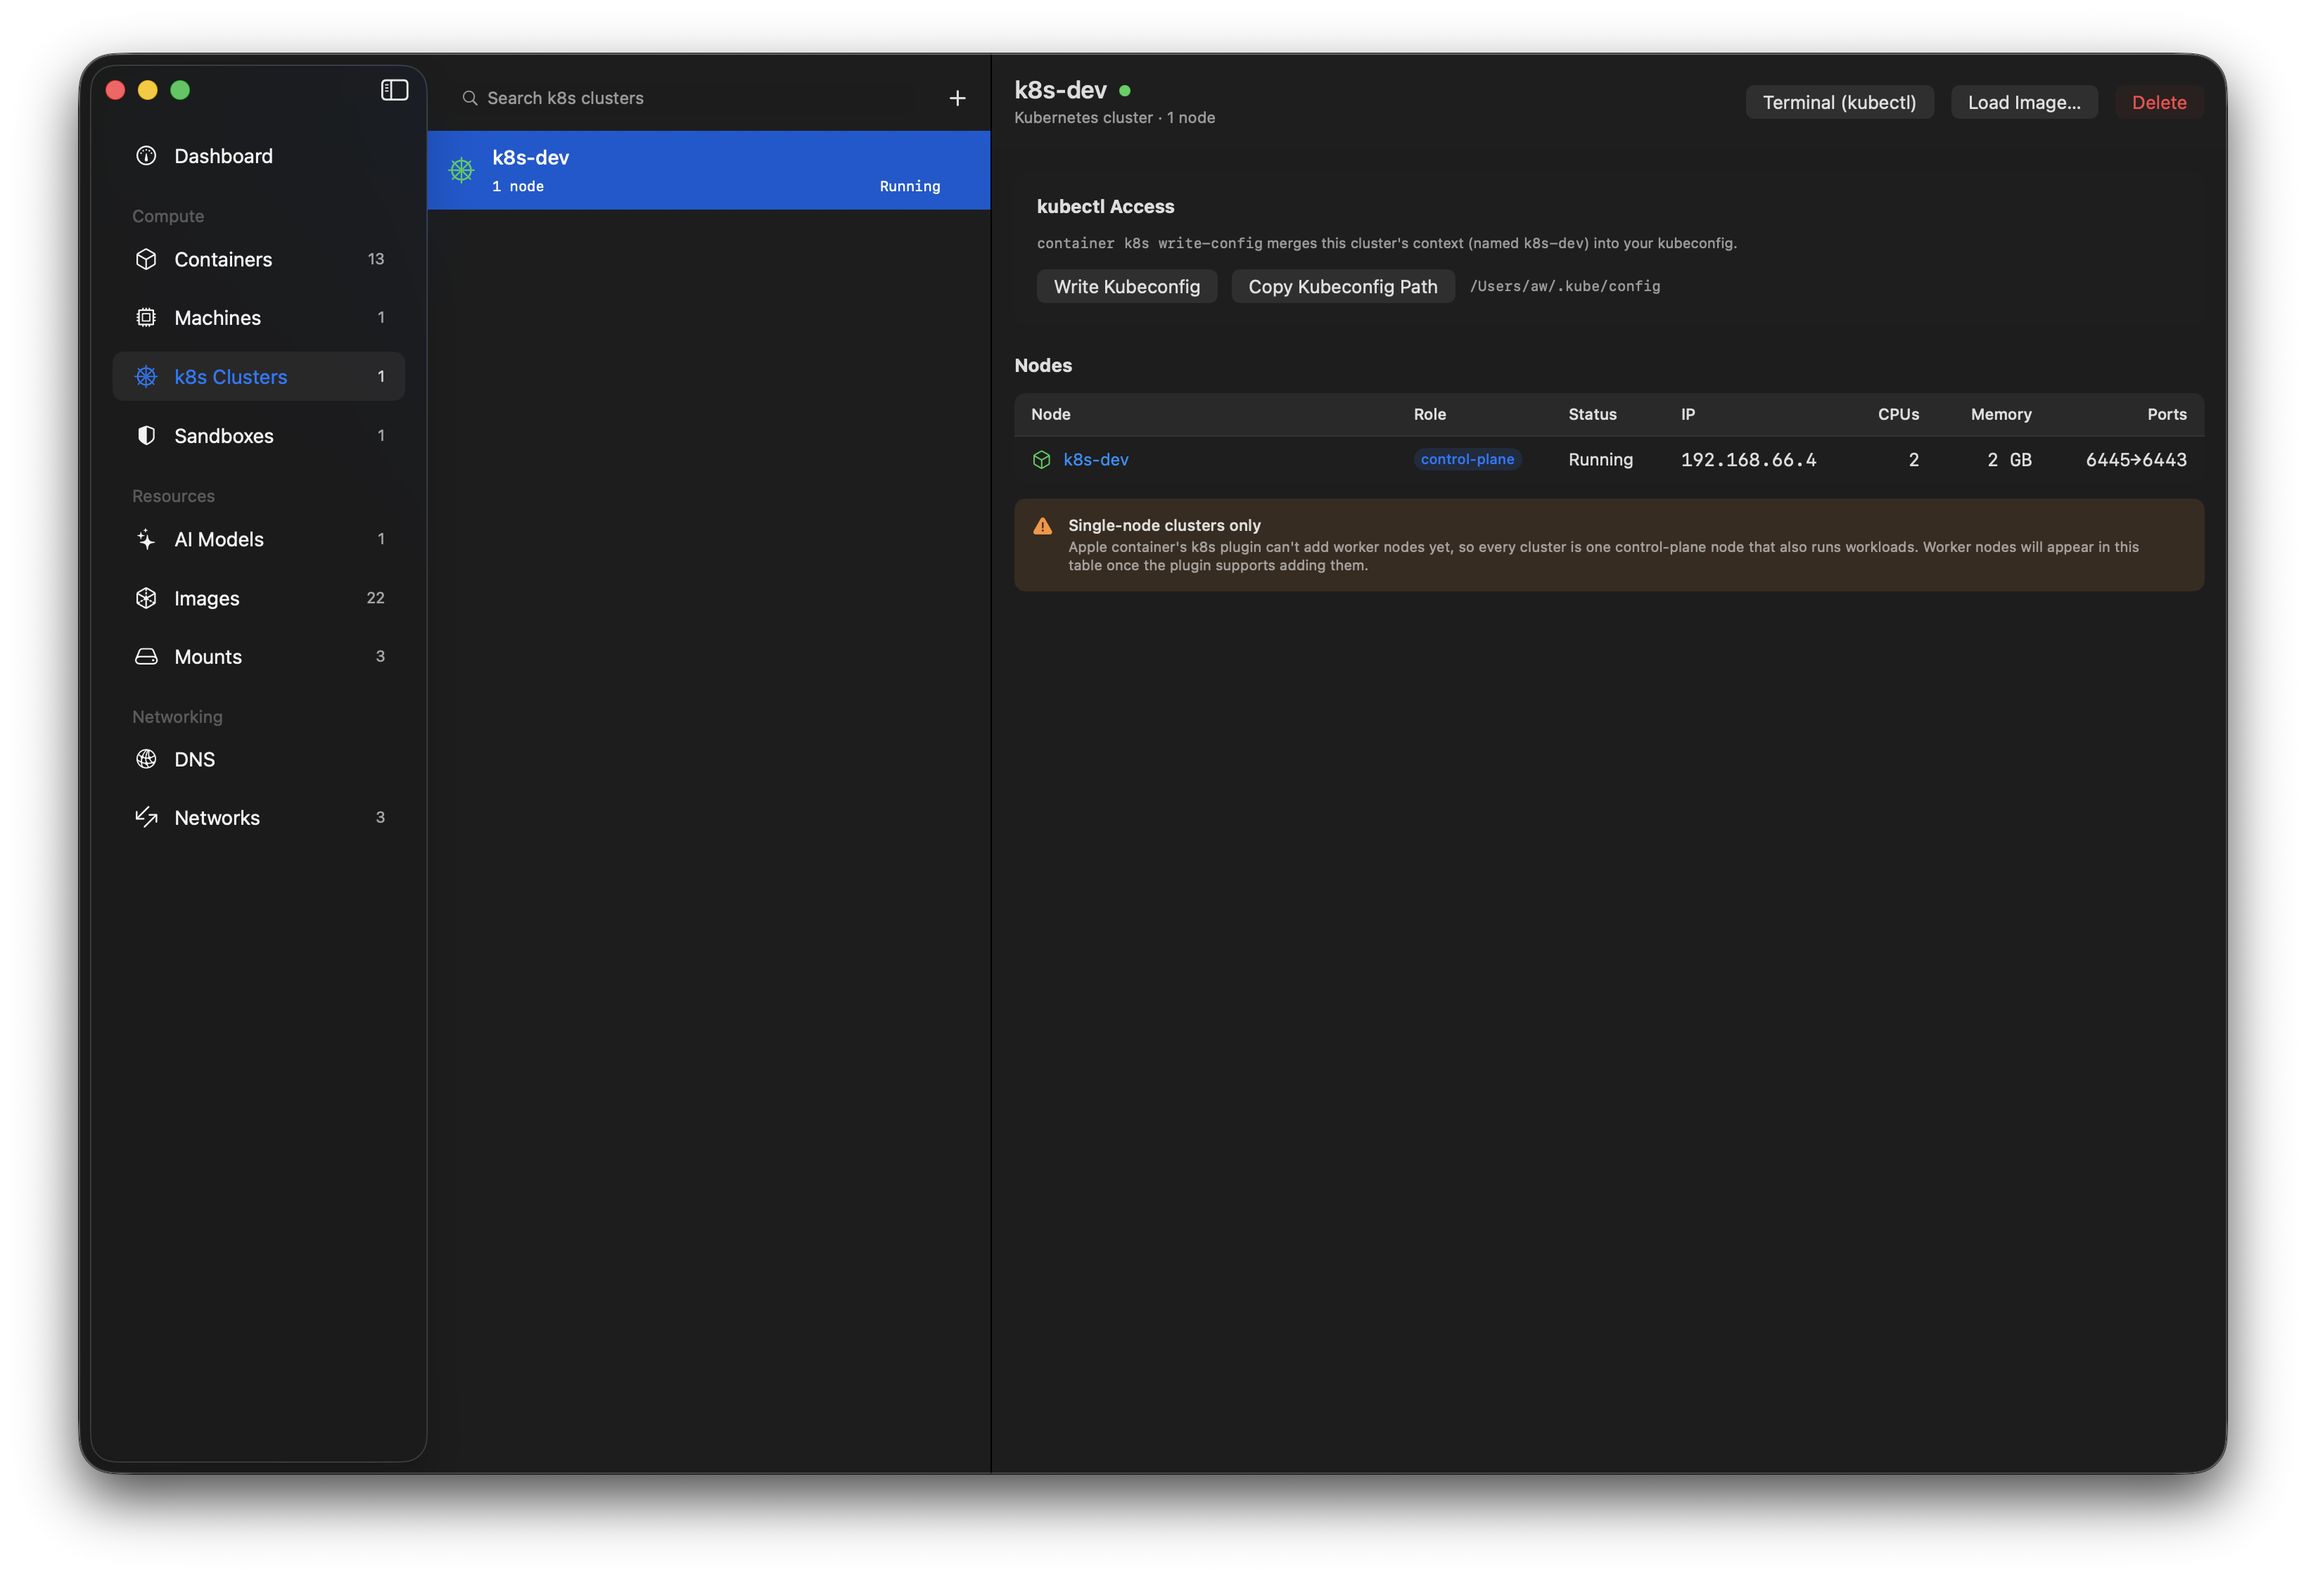
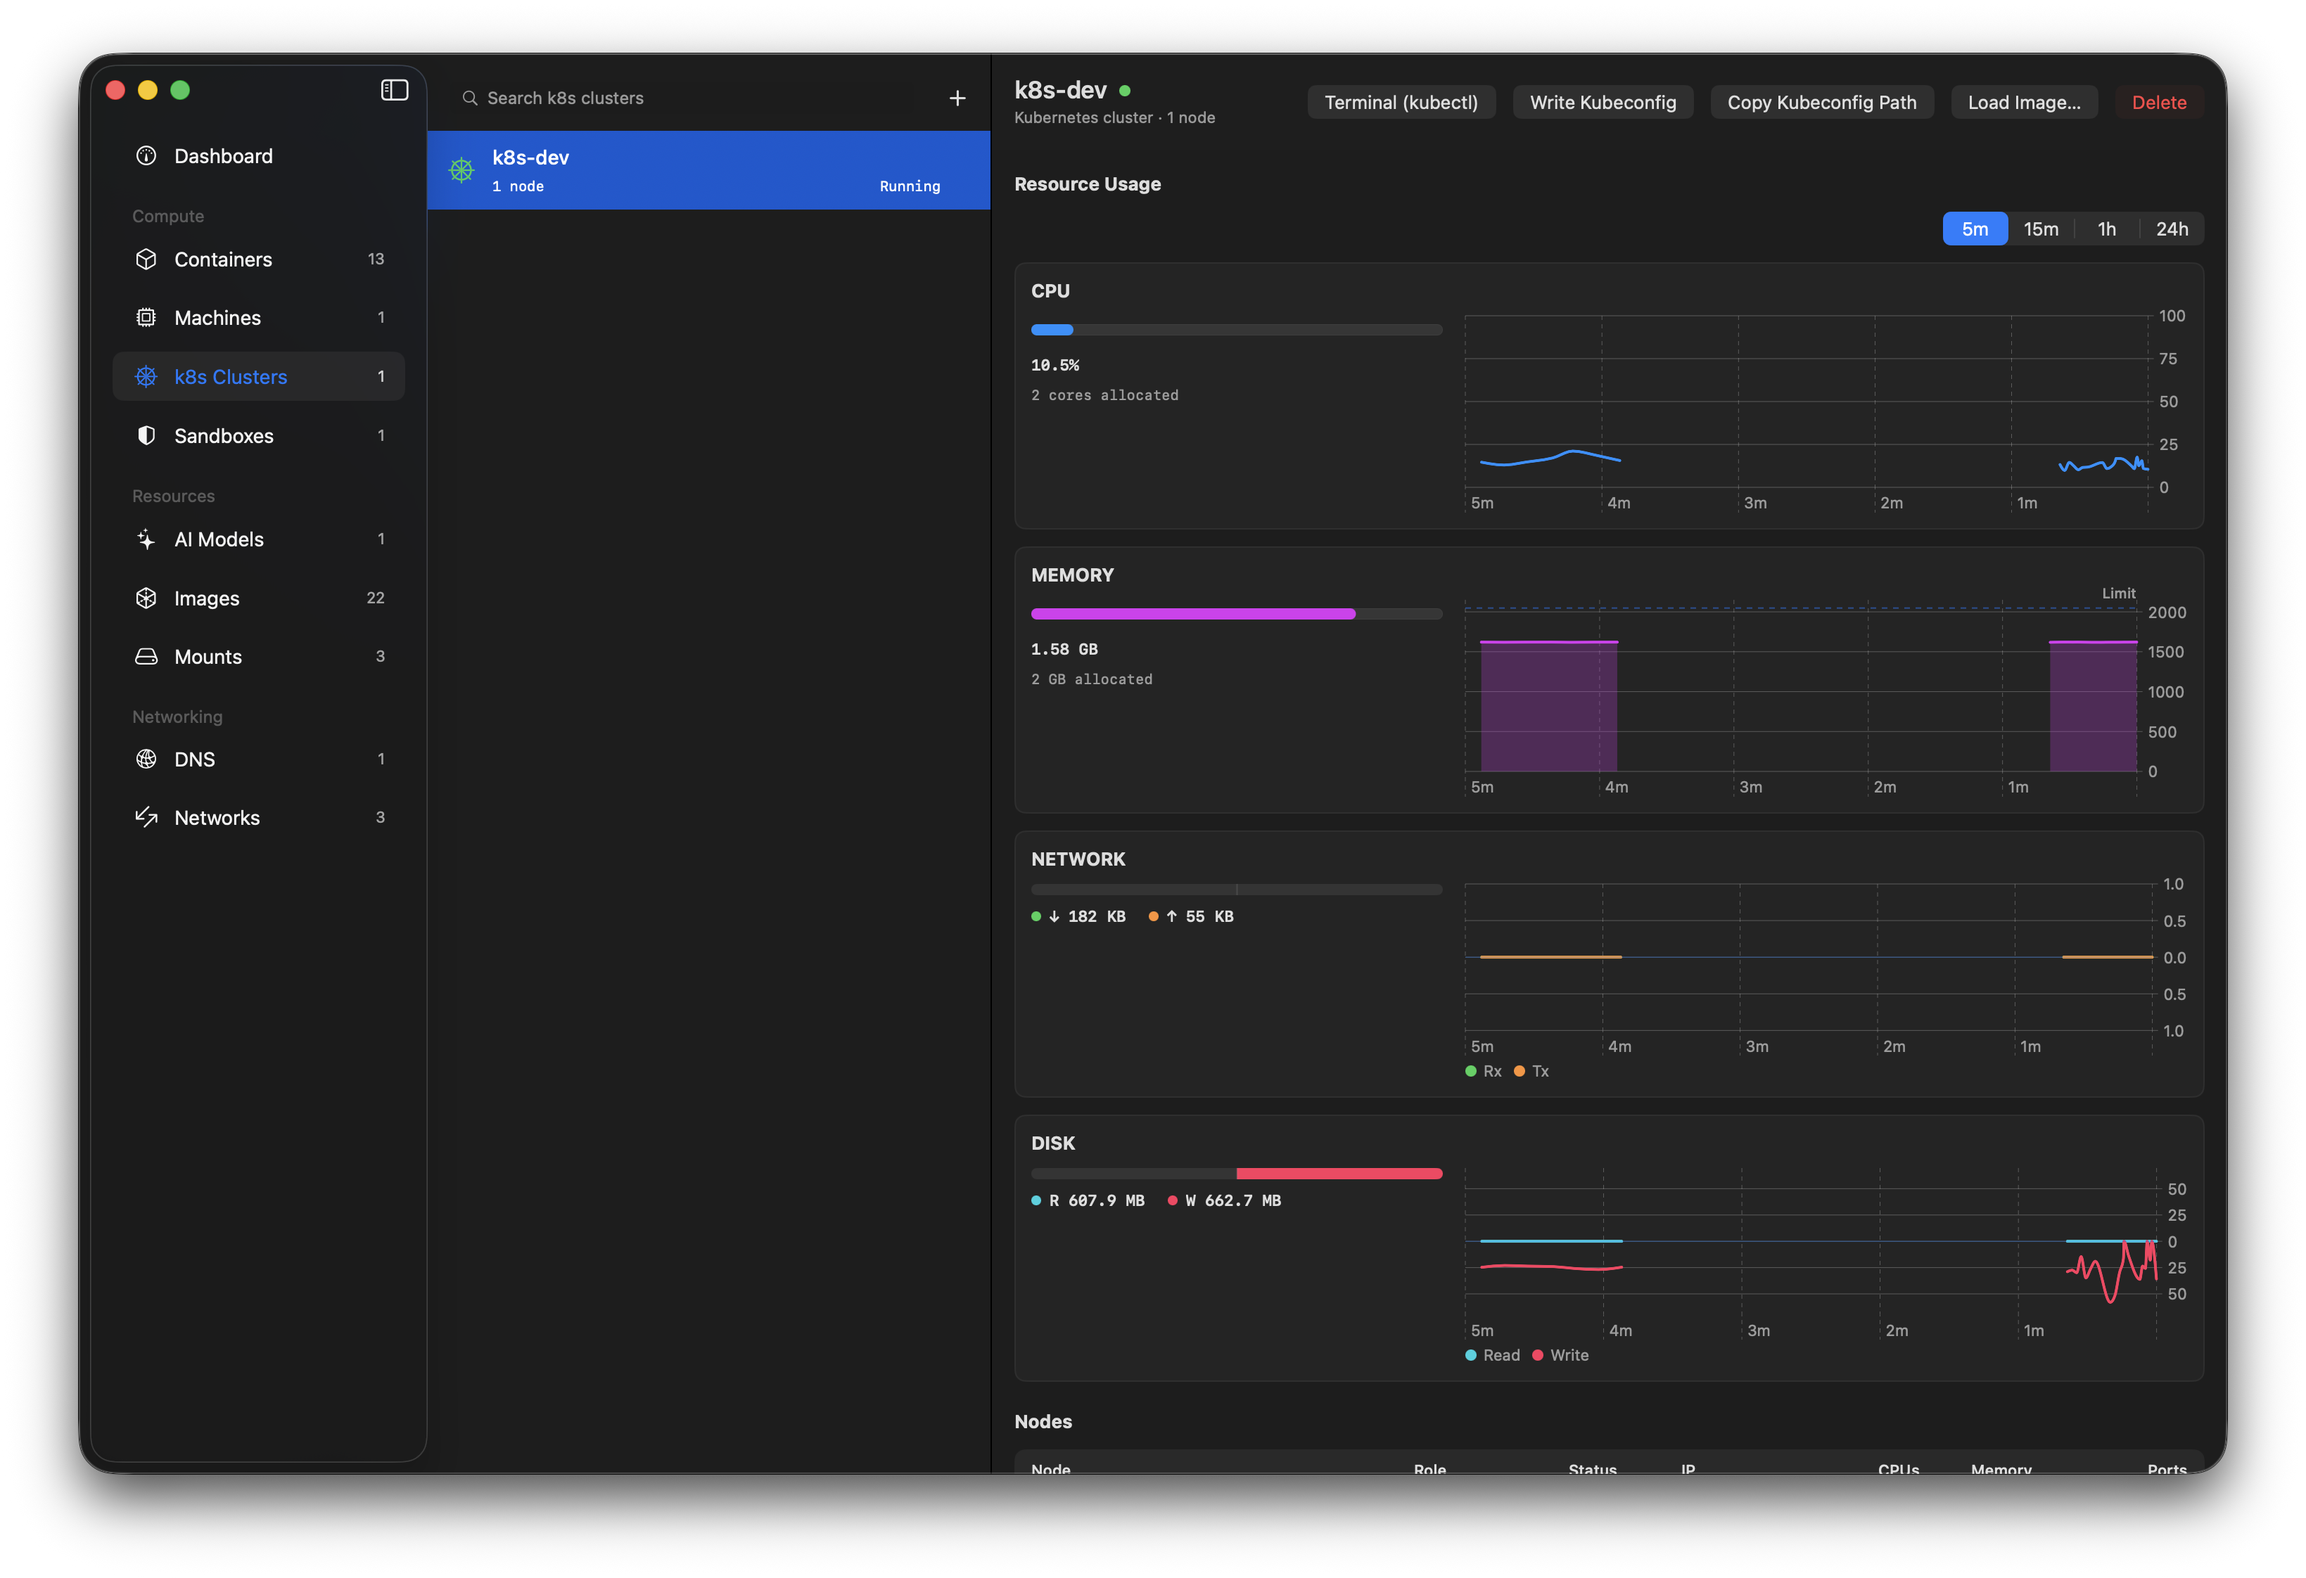
Move the AI model detail actions to the title row
Chat/New sandbox (and Stop/Show Log for managed servers) sit at the
title row's trailing edge, consistent with the other detail headers;
the port badge moves next to the name like the other badges.

diff --git a/Orchard/Views/Features/Models/ModelsView.swift b/Orchard/Views/Features/Models/ModelsView.swift
@@ -165,8 +165,26 @@ struct ModelDetailView: View {
                 Circle().fill(server.status == .running ? Color.green : Color.red).frame(width: 9, height: 9)
                 Text(server.model).font(.title3).fontWeight(.semibold)
                     .lineLimit(1).truncationMode(.middle)
-                Spacer()
                 portBadge(server.port)
+                Spacer()
+                // Actions live top-right, consistent with the other detail headers.
+                HStack(spacing: 8) {
+                    if server.status == .running {
+                        Button(action: { testTarget = TestTarget(name: server.model, port: server.port, api: server.api, model: server.model) }) {
+                            Label("Chat…", systemImage: "text.bubble")
+                        }
+                        Button(action: { runTarget = RunTarget(modelID: server.id) }) {
+                            Label("New sandbox…", systemImage: "shield.lefthalf.filled")
+                        }
+                    }
+                    Button(role: .destructive, action: { modelServerService.stop(server.id) }) {
+                        Label("Stop", systemImage: "stop.fill")
+                    }
+                    Button(action: { revealLog(server.logPath) }) {
+                        Label("Show Log", systemImage: "doc.text")
+                    }
+                }
+                .font(.subheadline)
             }
 
             labeledRow("On this Mac", "http://\(server.host):\(server.port)/v1")
@@ -177,25 +195,7 @@ struct ModelDetailView: View {
                     .font(.caption).foregroundColor(.secondary)
             }
 
-            if server.status == .running {
-                HStack(spacing: 8) {
-                    Button(action: { testTarget = TestTarget(name: server.model, port: server.port, api: server.api, model: server.model) }) {
-                        Label("Chat…", systemImage: "text.bubble")
-                    }
-                    Button(action: { runTarget = RunTarget(modelID: server.id) }) {
-                        Label("New sandbox…", systemImage: "shield.lefthalf.filled")
-                    }
-                }
-                .font(.subheadline)
-            }
-
             HStack(spacing: 8) {
-                Button(role: .destructive, action: { modelServerService.stop(server.id) }) {
-                    Label("Stop", systemImage: "stop.fill")
-                }
-                Button(action: { revealLog(server.logPath) }) {
-                    Label("Show Log", systemImage: "doc.text")
-                }
                 if server.status == .failed {
                     Text("Stopped unexpectedly").font(.caption).foregroundColor(.red)
                 }
@@ -214,8 +214,19 @@ struct ModelDetailView: View {
             HStack(spacing: 8) {
                 SwiftUI.Image(systemName: "cpu")
                 Text(provider.kind.displayName).font(.title3).fontWeight(.semibold)
-                Spacer()
                 portBadge(provider.port)
+                Spacer()
+                if !provider.requiresAPIKey {
+                    HStack(spacing: 8) {
+                        Button(action: { testTarget = TestTarget(name: provider.kind.displayName, port: provider.port, api: provider.api, model: provider.models.first ?? "") }) {
+                            Label("Chat…", systemImage: "text.bubble")
+                        }
+                        Button(action: { runTarget = RunTarget(modelID: provider.id) }) {
+                            Label("New sandbox…", systemImage: "shield.lefthalf.filled")
+                        }
+                    }
+                    .font(.subheadline)
+                }
             }
 
             labeledRow("On this Mac", provider.hostBaseURL)
@@ -255,18 +266,6 @@ struct ModelDetailView: View {
                         Text(model).font(.system(.caption, design: .monospaced)).textSelection(.enabled)
                     }
                 }
-            }
-
-            if !provider.requiresAPIKey {
-                HStack(spacing: 8) {
-                    Button(action: { testTarget = TestTarget(name: provider.kind.displayName, port: provider.port, api: provider.api, model: provider.models.first ?? "") }) {
-                        Label("Chat…", systemImage: "text.bubble")
-                    }
-                    Button(action: { runTarget = RunTarget(modelID: provider.id) }) {
-                        Label("New sandbox…", systemImage: "shield.lefthalf.filled")
-                    }
-                }
-                .font(.subheadline)
             }
 
             Spacer()
